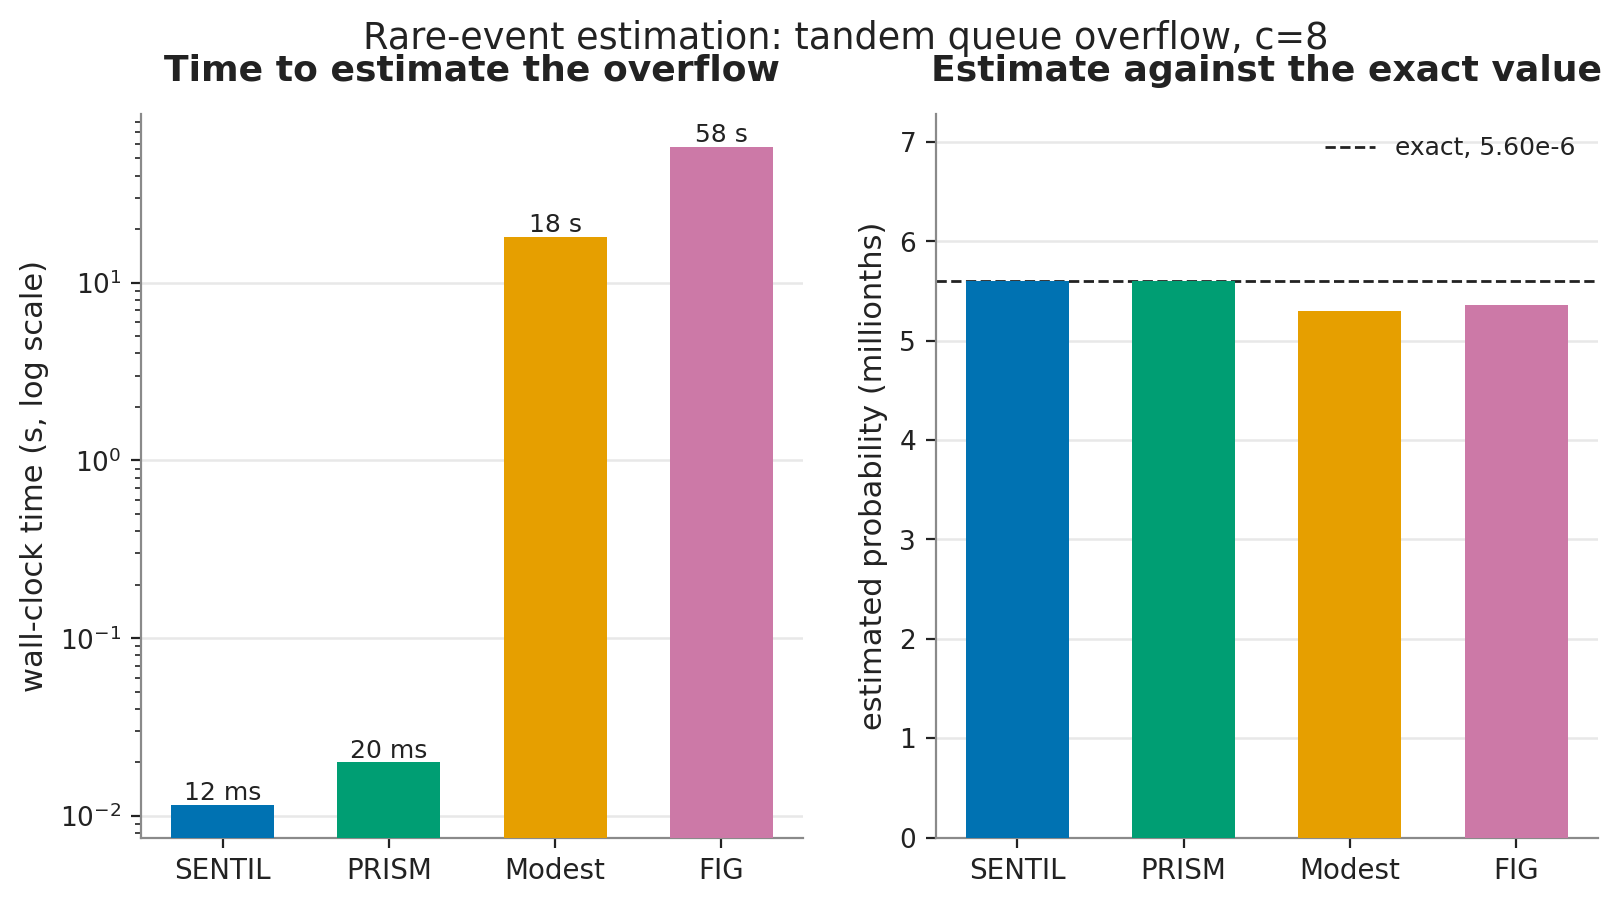
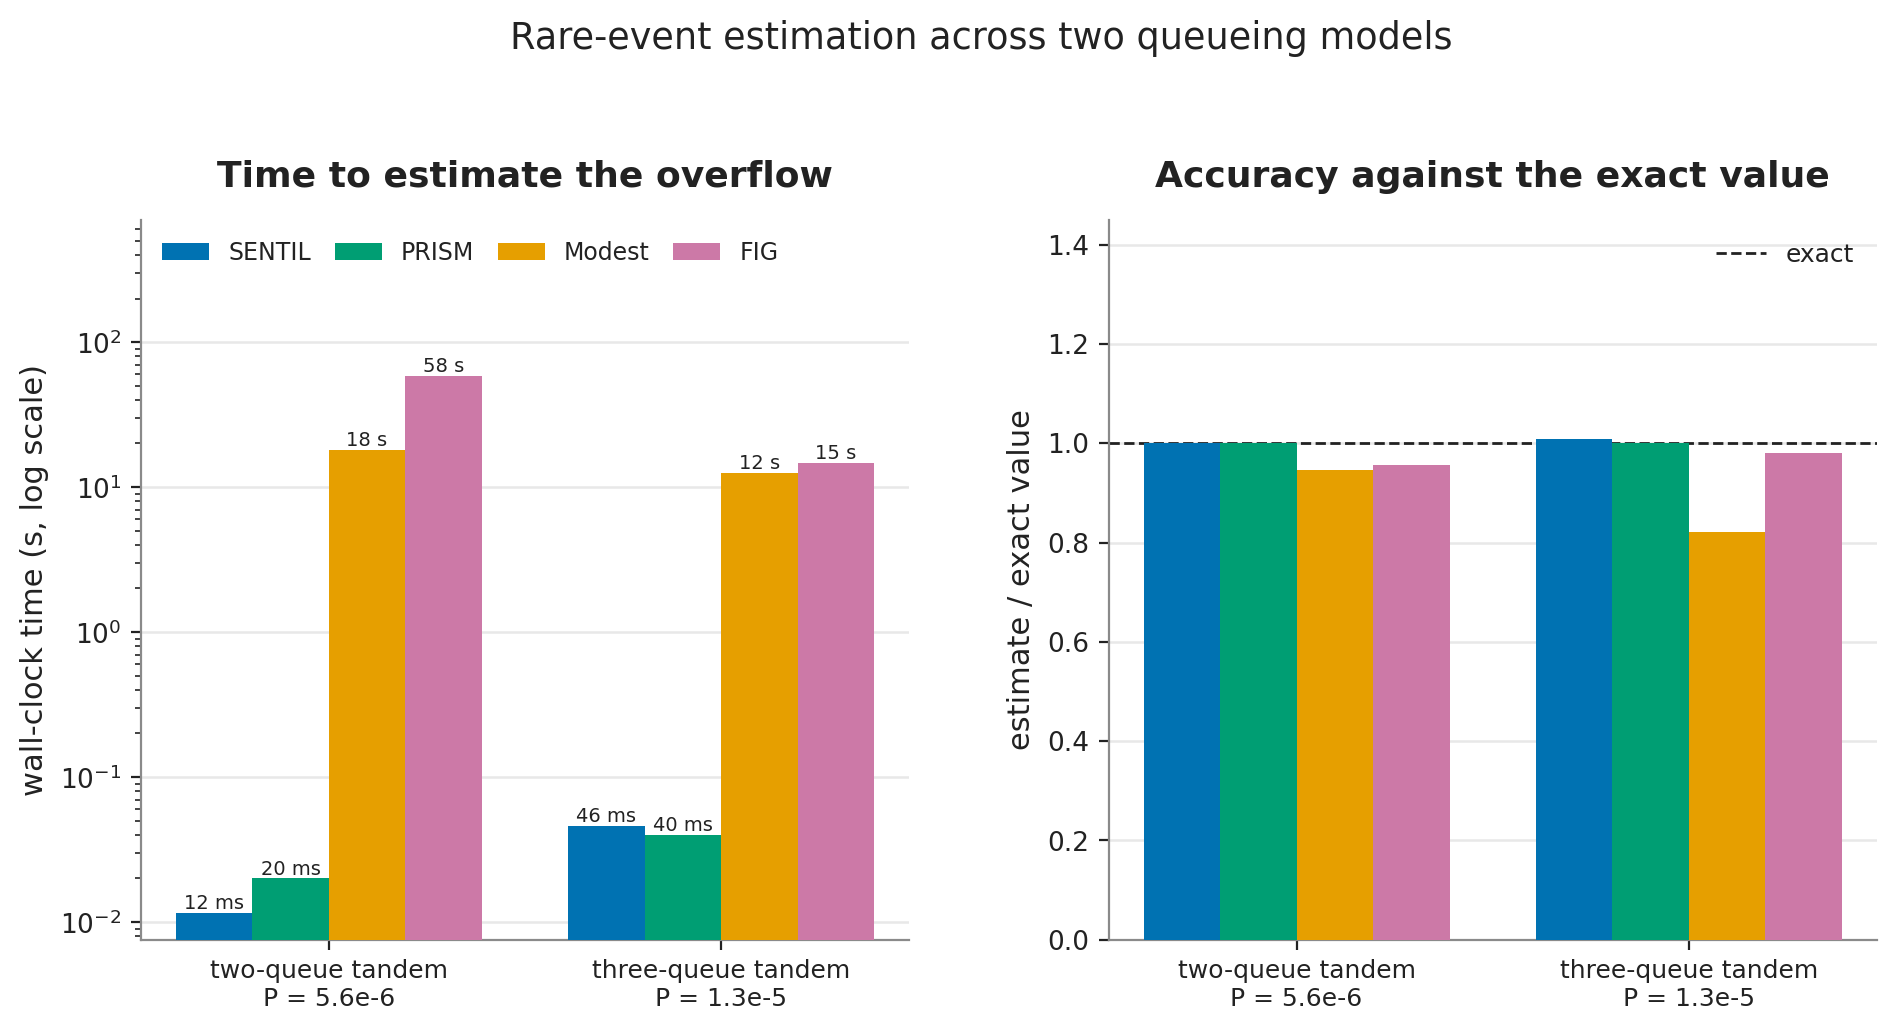
redraw the rare-event bars across both queue models, more room around the panels

diff --git a/benchmarks/runners/plot.py b/benchmarks/runners/plot.py
@@ -320,49 +320,66 @@ def synthesis(records):
     save(fig, "synthesis.png")
 
 def rare_event(records):
-    rows = [r for r in records if r.get("benchmark") == "rare_event/tandem" and r.get("c") == 8]
-    if not rows:
-        return
-    truth = 5.602338e-6
-
-    def one(tool, **kw):
-        return next((r for r in rows if r["tool"] == tool
-                     and all(r.get(k) == v for k, v in kw.items())), None)
-
-    # One representative run per tool, at a comparable precision, SENTIL first.
-    picks = [
-        ("SENTIL", one("sentil", particles=4000), style.TOOL["sentil"]),
-        ("PRISM", one("prism"), style.TOOL["prism"]),
-        ("Modest", one("modest", method="fixed_effort"), style.TOOL["modest"]),
-        ("FIG", one("fig", stop_rel_prec=0.2), "#CC79A7"),
+    models = [
+        ("two-queue tandem\nP = 5.6e-6", "rare_event/tandem", 5.602338e-6),
+        ("three-queue tandem\nP = 1.3e-5", "rare_event/three_tandem", 1.274381e-5),
     ]
-    picks = [(n, r, c) for n, r, c in picks if r]
-    labels = [n for n, _, _ in picks]
-    colors = [c for _, _, c in picks]
-    times = [r["time_ms"] / 1000.0 for _, r, _ in picks]
-    ests = [r["estimate"] * 1e6 for _, r, _ in picks]
+    tools = ["SENTIL", "PRISM", "Modest", "FIG"]
+    color = {"SENTIL": style.TOOL["sentil"], "PRISM": style.TOOL["prism"],
+             "Modest": style.TOOL["modest"], "FIG": "#CC79A7"}
+    fig_prec = {"rare_event/tandem": 0.2, "rare_event/three_tandem": 0.3}
 
-    fig, (ax1, ax2) = plt.subplots(1, 2, figsize=(9.4, 4.7))
-    bars1 = ax1.bar(range(len(picks)), times, color=colors, width=0.62, zorder=3)
+    def rep(bench, tool):
+        t = tool.lower()
+        rows = [r for r in records if r.get("benchmark") == bench and r.get("tool") == t]
+        if not rows:
+            return None
+        if t == "sentil":
+            return min(rows, key=lambda r: r.get("particles", 0))
+        if t == "modest":
+            return next((r for r in rows if r.get("method") == "fixed_effort"), rows[0])
+        if t == "fig":
+            return next((r for r in rows if r.get("stop_rel_prec") == fig_prec.get(bench)), rows[0])
+        return rows[0]
+
+    if not any(rep(m[1], "SENTIL") for m in models):
+        return
+    n_tools = len(tools)
+    width = 0.78 / n_tools
+    fig, (ax1, ax2) = plt.subplots(1, 2, figsize=(11.2, 5.0))
+    top = 0.0
+    for ti, tool in enumerate(tools):
+        xs, times, ratios = [], [], []
+        for mi, (_, bench, truth) in enumerate(models):
+            r = rep(bench, tool)
+            xs.append(mi + (ti - (n_tools - 1) / 2) * width)
+            times.append(r["time_ms"] / 1000.0 if r else 0.0)
+            ratios.append(r["estimate"] / truth if r else 0.0)
+        top = max(top, max(times))
+        rects = ax1.bar(xs, times, width=width, color=color[tool], label=tool, zorder=3)
+        for rect, t in zip(rects, times):
+            tag = f"{t:.0f} s" if t >= 1 else f"{t * 1000:.0f} ms"
+            ax1.text(rect.get_x() + rect.get_width() / 2, t, tag, ha="center", va="bottom", fontsize=7, color=style.INK)
+        ax2.bar(xs, ratios, width=width, color=color[tool], zorder=3)
+
     ax1.set_yscale("log")
+    ax1.set_ylim(top=top * 12)
     ax1.set_ylabel("wall-clock time (s, log scale)")
     ax1.set_title("Time to estimate the overflow")
-    ax1.set_xticks(range(len(picks)))
-    ax1.set_xticklabels(labels, fontsize=10)
-    for rect, t in zip(bars1, times):
-        tag = f"{t:.0f} s" if t >= 1 else f"{t * 1000:.0f} ms"
-        ax1.text(rect.get_x() + rect.get_width() / 2, t, tag, ha="center", va="bottom", fontsize=9, color=style.INK)
+    ax1.set_xticks(range(len(models)))
+    ax1.set_xticklabels([m[0] for m in models], fontsize=9)
+    ax1.legend(loc="upper left", ncol=4, fontsize=8.5, columnspacing=1.0)
 
-    ax2.bar(range(len(picks)), ests, color=colors, width=0.62, zorder=3)
-    ax2.axhline(truth * 1e6, color=style.INK, linestyle="--", linewidth=1.0, zorder=2, label="exact, 5.60e-6")
-    ax2.set_ylabel("estimated probability (millionths)")
-    ax2.set_title("Estimate against the exact value")
-    ax2.set_xticks(range(len(picks)))
-    ax2.set_xticklabels(labels, fontsize=10)
-    ax2.set_ylim(0, max(ests) * 1.3)
+    ax2.axhline(1.0, color=style.INK, linestyle="--", linewidth=1.0, zorder=2, label="exact")
+    ax2.set_ylabel("estimate / exact value")
+    ax2.set_title("Accuracy against the exact value")
+    ax2.set_xticks(range(len(models)))
+    ax2.set_xticklabels([m[0] for m in models], fontsize=9)
+    ax2.set_ylim(0, 1.45)
     ax2.legend(loc="upper right", fontsize=9)
 
-    fig.suptitle("Rare-event estimation: tandem queue overflow, c=8")
+    fig.suptitle("Rare-event estimation across two queueing models", y=1.03)
+    fig.subplots_adjust(wspace=0.26, top=0.83)
     save(fig, "rare_event.png")
 
 def rare_event_gpu(records):
